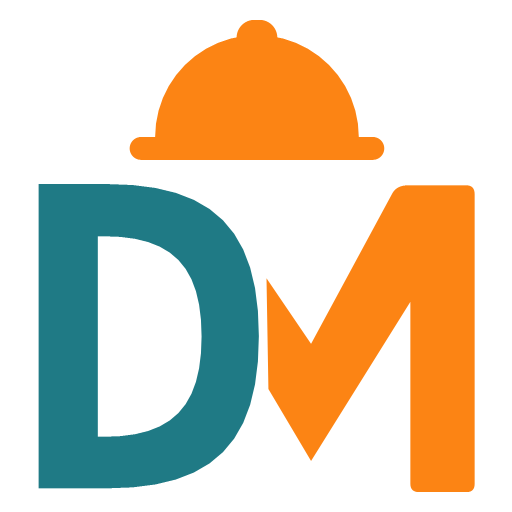
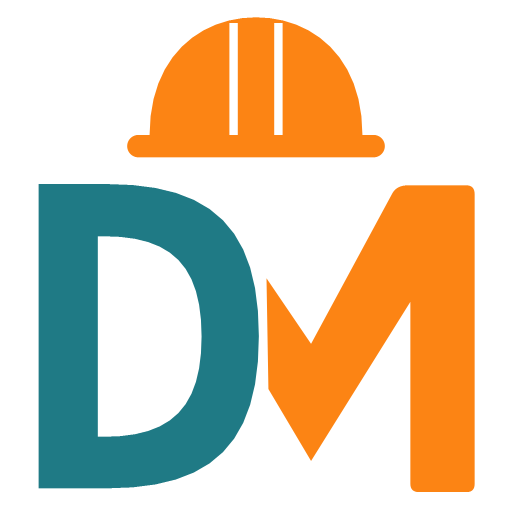
Redraw the hard hat so it reads as a safety helmet

Changed region(s): [[0.25, 0.0312, 0.75, 0.3125]]

diff --git a/index.html b/index.html
@@ -437,7 +437,7 @@ section { scroll-margin-top: calc(var(--bar-h, 72px) - 8px); }
 
 <header class="bar" id="bar">
   <div class="wrap bar-in">
-    <a class="mark" href="#top" aria-label="DM Solutions Ireland Limited, home"><svg class="logo" viewBox="36 76 254 84" width="139" height="46" role="img" aria-label="DM Solutions Ireland Limited"><g transform="translate(55.5 79.4) scale(0.4)"><path d="M10 50A40 40 0 0 1 90 50Z" fill="#FC8414"/><rect x="42" y="4" width="16" height="30" rx="7" fill="#FC8414"/><rect x="0" y="50" width="100" height="9" rx="4.5" fill="#FC8414"/></g><path fill-rule="evenodd" fill="#52B8C4" d="M41.2 106.8H52C68.7 106.8 75.8 114 75.8 130.7C75.8 147.4 68.7 154.6 52 154.6H41.2ZM50.5 115H51.5C62.2 115 66.8 119.7 66.8 130.75C66.8 141.8 62.2 146.5 51.5 146.5H50.5Z"/><path fill="#FC8414" d="M99.2 107L108.4 107Q109.7 107 109.7 108.4L109.7 153.9Q109.7 155.2 108.4 155.2L101 155.2Q99.6 155.2 99.6 153.9L99.6 125.3L84 150.3L77.3 139L77 121.6L84 131.9L96.8 108.2Q97.5 107 99.2 107Z"/><g transform="translate(-40.8 -50.82) scale(1.2)"><path fill="#FFFFFF" d="M135 147.8L140.2 147.8Q140.3 148.9 140.9 149.5Q141.6 150.1 142.6 150.1Q143.7 150.1 144.3 149.6Q145 149.1 145 148.2Q145 147.5 144.5 147Q144 146.5 143.2 146.2Q142.5 145.9 141.2 145.5Q139.3 144.9 138 144.3Q136.8 143.7 135.9 142.6Q135 141.4 135 139.5Q135 136.7 137.1 135.2Q139.1 133.6 142.3 133.6Q145.6 133.6 147.6 135.2Q149.6 136.7 149.8 139.5L144.5 139.5Q144.5 138.6 143.8 138Q143.2 137.5 142.1 137.5Q141.3 137.5 140.7 137.9Q140.2 138.4 140.2 139.3Q140.2 140.3 141.1 140.8Q142 141.3 143.9 142Q145.9 142.6 147.1 143.2Q148.3 143.8 149.2 144.9Q150 146.1 150 147.9Q150 149.6 149.2 151Q148.3 152.4 146.7 153.2Q145 154 142.8 154Q140.6 154 138.9 153.3Q137.1 152.6 136.1 151.2Q135 149.8 135 147.8Z M152.3 145.9Q152.3 143.4 153.4 141.6Q154.5 139.7 156.4 138.7Q158.2 137.7 160.6 137.7Q162.9 137.7 164.8 138.7Q166.7 139.7 167.7 141.6Q168.8 143.4 168.8 145.9Q168.8 148.3 167.7 150.2Q166.6 152 164.7 153Q162.8 154 160.5 154Q158.2 154 156.3 153Q154.5 152 153.4 150.2Q152.3 148.3 152.3 145.9Z M163.9 145.9Q163.9 144 162.9 143Q162 141.9 160.6 141.9Q159.2 141.9 158.2 142.9Q157.3 143.9 157.3 145.9Q157.3 147.8 158.2 148.8Q159.1 149.8 160.5 149.8Q161.9 149.8 162.9 148.8Q163.9 147.8 163.9 145.9Z M176.5 132.8L176.5 153.8L171.7 153.8L171.7 132.8L176.5 132.8Z M196 138L196 153.8L191.1 153.8L191.1 151.6Q190.4 152.7 189.1 153.3Q187.9 154 186.3 154Q184.5 154 183.1 153.2Q181.7 152.4 181 150.8Q180.2 149.3 180.2 147.2L180.2 138L185 138L185 146.6Q185 148.1 185.8 149Q186.7 149.9 188.1 149.9Q189.5 149.9 190.3 149Q191.1 148.1 191.1 146.6L191.1 138L196 138Z M208.6 149.7L208.6 153.8L206.1 153.8Q203.5 153.8 202 152.5Q200.5 151.2 200.5 148.3L200.5 142L198.6 142L198.6 138L200.5 138L200.5 134.1L205.4 134.1L205.4 138L208.6 138L208.6 142L205.4 142L205.4 148.3Q205.4 149.1 205.7 149.4Q206.1 149.7 206.9 149.7L208.6 149.7Z M211.1 133.7Q211.1 132.6 211.9 131.8Q212.7 131.1 214 131.1Q215.3 131.1 216.1 131.8Q216.9 132.6 216.9 133.7Q216.9 134.8 216.1 135.6Q215.3 136.3 214 136.3Q212.7 136.3 211.9 135.6Q211.1 134.8 211.1 133.7Z M216.4 138L216.4 153.8L211.6 153.8L211.6 138L216.4 138Z M219.3 145.9Q219.3 143.4 220.3 141.6Q221.4 139.7 223.3 138.7Q225.2 137.7 227.5 137.7Q229.8 137.7 231.7 138.7Q233.6 139.7 234.7 141.6Q235.7 143.4 235.7 145.9Q235.7 148.3 234.6 150.2Q233.5 152 231.7 153Q229.8 154 227.4 154Q225.1 154 223.3 153Q221.4 152 220.3 150.2Q219.3 148.3 219.3 145.9Z M230.8 145.9Q230.8 144 229.8 143Q228.9 141.9 227.5 141.9Q226.1 141.9 225.1 142.9Q224.2 143.9 224.2 145.9Q224.2 147.8 225.1 148.8Q226 149.8 227.4 149.8Q228.8 149.8 229.8 148.8Q230.8 147.8 230.8 145.9Z M254.4 144.5L254.4 153.8L249.5 153.8L249.5 145.2Q249.5 143.6 248.7 142.7Q247.9 141.8 246.5 141.8Q245.1 141.8 244.3 142.7Q243.5 143.6 243.5 145.2L243.5 153.8L238.6 153.8L238.6 138L243.5 138L243.5 140.1Q244.2 139 245.4 138.4Q246.7 137.8 248.3 137.8Q251 137.8 252.7 139.6Q254.4 141.4 254.4 144.5Z M257.2 148.6L262 148.6Q262.1 149.4 262.7 149.9Q263.4 150.4 264.4 150.4Q265.3 150.4 265.8 150.1Q266.3 149.7 266.3 149.2Q266.3 148.5 265.6 148.2Q264.9 147.8 263.3 147.4Q261.6 147 260.5 146.6Q259.3 146.2 258.5 145.2Q257.7 144.3 257.7 142.6Q257.7 141.3 258.4 140.2Q259.2 139 260.6 138.4Q262.1 137.7 264.1 137.7Q267.1 137.7 268.8 139.2Q270.5 140.7 270.8 143.1L266.3 143.1Q266.2 142.3 265.6 141.8Q265 141.3 264 141.3Q263.1 141.3 262.7 141.7Q262.2 142 262.2 142.6Q262.2 143.2 262.9 143.6Q263.7 143.9 265.2 144.3Q267 144.7 268.1 145.2Q269.2 145.6 270 146.6Q270.9 147.6 270.9 149.2Q270.9 150.6 270.1 151.7Q269.3 152.8 267.9 153.4Q266.4 154 264.5 154Q262.4 154 260.8 153.3Q259.2 152.6 258.2 151.4Q257.3 150.1 257.2 148.6Z"/><path fill="#FFFFFF" d="M135.6 162L135.6 172L134 172L134 162L135.6 162Z M144.8 172L142.5 168L141.2 168L141.2 172L139.6 172L139.6 162L143 162Q144.2 162 145 162.4Q145.8 162.8 146.2 163.5Q146.6 164.2 146.6 165Q146.6 166 146 166.8Q145.4 167.6 144.3 167.9L146.7 172L144.8 172Z M141.2 166.7L143 166.7Q144 166.7 144.4 166.2Q144.9 165.8 144.9 165Q144.9 164.2 144.4 163.8Q144 163.3 143 163.3L141.2 163.3L141.2 166.7Z M152.1 163.3L152.1 166.3L155.6 166.3L155.6 167.6L152.1 167.6L152.1 170.7L156 170.7L156 172L150.5 172L150.5 162L156 162L156 163.3L152.1 163.3Z M161.5 170.7L164.9 170.7L164.9 172L159.8 172L159.8 162L161.5 162L161.5 170.7Z M174.1 170L169.9 170L169.1 172L167.4 172L171 162L172.9 162L176.5 172L174.8 172L174.1 170Z M173.6 168.6L172 164L170.3 168.6L173.6 168.6Z M188.1 172L186.4 172L181.5 164.5L181.5 172L179.9 172L179.9 162L181.5 162L186.4 169.4L186.4 162L188.1 162L188.1 172Z M200.6 167Q200.6 168.6 200 169.7Q199.3 170.8 198.1 171.4Q196.9 172 195.3 172L192 172L192 162L195.3 162Q196.9 162 198.1 162.6Q199.3 163.2 200 164.4Q200.6 165.5 200.6 167Z M198.9 167Q198.9 165.3 198 164.3Q197.1 163.3 195.3 163.3L193.7 163.3L193.7 170.7L195.3 170.7Q197.1 170.7 198 169.7Q198.9 168.8 198.9 167Z M211.2 170.7L214.6 170.7L214.6 172L209.6 172L209.6 162L211.2 162L211.2 170.7Z M219.4 162L219.4 172L217.8 172L217.8 162L219.4 162Z M233.9 162L233.9 172L232.3 172L232.3 165.1L229.2 172L228.1 172L225 165.1L225 172L223.4 172L223.4 162L225.2 162L228.7 169.8L232.2 162L233.9 162Z M239.5 162L239.5 172L237.9 172L237.9 162L239.5 162Z M250 162L250 163.3L247.3 163.3L247.3 172L245.7 172L245.7 163.3L243 163.3L243 162L250 162Z M255.1 163.3L255.1 166.3L258.5 166.3L258.5 167.6L255.1 167.6L255.1 170.7L258.9 170.7L258.9 172L253.4 172L253.4 162L258.9 162L258.9 163.3L255.1 163.3Z M271.3 167Q271.3 168.6 270.7 169.7Q270 170.8 268.8 171.4Q267.6 172 266 172L262.8 172L262.8 162L266 162Q267.6 162 268.8 162.6Q270 163.2 270.7 164.4Q271.3 165.5 271.3 167Z M269.7 167Q269.7 165.3 268.7 164.3Q267.8 163.3 266 163.3L264.4 163.3L264.4 170.7L266 170.7Q267.8 170.7 268.7 169.7Q269.7 168.8 269.7 167Z"/></g></svg></a>
+    <a class="mark" href="#top" aria-label="DM Solutions Ireland Limited, home"><svg class="logo" viewBox="36 76 254 84" width="139" height="46" role="img" aria-label="DM Solutions Ireland Limited"><g transform="translate(53.35 77.08) scale(0.44)"><path fill-rule="evenodd" fill="#FC8414" d="M12 50C12 22 30 8 50 8C70 8 88 22 88 50ZM40.5 10H43.5V50H40.5ZM56.5 10H59.5V50H56.5Z"/><rect x="4" y="50" width="92" height="8" rx="4" fill="#FC8414"/></g><path fill-rule="evenodd" fill="#52B8C4" d="M41.2 106.8H52C68.7 106.8 75.8 114 75.8 130.7C75.8 147.4 68.7 154.6 52 154.6H41.2ZM50.5 115H51.5C62.2 115 66.8 119.7 66.8 130.75C66.8 141.8 62.2 146.5 51.5 146.5H50.5Z"/><path fill="#FC8414" d="M99.2 107L108.4 107Q109.7 107 109.7 108.4L109.7 153.9Q109.7 155.2 108.4 155.2L101 155.2Q99.6 155.2 99.6 153.9L99.6 125.3L84 150.3L77.3 139L77 121.6L84 131.9L96.8 108.2Q97.5 107 99.2 107Z"/><g transform="translate(-40.8 -50.82) scale(1.2)"><path fill="#FFFFFF" d="M135 147.8L140.2 147.8Q140.3 148.9 140.9 149.5Q141.6 150.1 142.6 150.1Q143.7 150.1 144.3 149.6Q145 149.1 145 148.2Q145 147.5 144.5 147Q144 146.5 143.2 146.2Q142.5 145.9 141.2 145.5Q139.3 144.9 138 144.3Q136.8 143.7 135.9 142.6Q135 141.4 135 139.5Q135 136.7 137.1 135.2Q139.1 133.6 142.3 133.6Q145.6 133.6 147.6 135.2Q149.6 136.7 149.8 139.5L144.5 139.5Q144.5 138.6 143.8 138Q143.2 137.5 142.1 137.5Q141.3 137.5 140.7 137.9Q140.2 138.4 140.2 139.3Q140.2 140.3 141.1 140.8Q142 141.3 143.9 142Q145.9 142.6 147.1 143.2Q148.3 143.8 149.2 144.9Q150 146.1 150 147.9Q150 149.6 149.2 151Q148.3 152.4 146.7 153.2Q145 154 142.8 154Q140.6 154 138.9 153.3Q137.1 152.6 136.1 151.2Q135 149.8 135 147.8Z M152.3 145.9Q152.3 143.4 153.4 141.6Q154.5 139.7 156.4 138.7Q158.2 137.7 160.6 137.7Q162.9 137.7 164.8 138.7Q166.7 139.7 167.7 141.6Q168.8 143.4 168.8 145.9Q168.8 148.3 167.7 150.2Q166.6 152 164.7 153Q162.8 154 160.5 154Q158.2 154 156.3 153Q154.5 152 153.4 150.2Q152.3 148.3 152.3 145.9Z M163.9 145.9Q163.9 144 162.9 143Q162 141.9 160.6 141.9Q159.2 141.9 158.2 142.9Q157.3 143.9 157.3 145.9Q157.3 147.8 158.2 148.8Q159.1 149.8 160.5 149.8Q161.9 149.8 162.9 148.8Q163.9 147.8 163.9 145.9Z M176.5 132.8L176.5 153.8L171.7 153.8L171.7 132.8L176.5 132.8Z M196 138L196 153.8L191.1 153.8L191.1 151.6Q190.4 152.7 189.1 153.3Q187.9 154 186.3 154Q184.5 154 183.1 153.2Q181.7 152.4 181 150.8Q180.2 149.3 180.2 147.2L180.2 138L185 138L185 146.6Q185 148.1 185.8 149Q186.7 149.9 188.1 149.9Q189.5 149.9 190.3 149Q191.1 148.1 191.1 146.6L191.1 138L196 138Z M208.6 149.7L208.6 153.8L206.1 153.8Q203.5 153.8 202 152.5Q200.5 151.2 200.5 148.3L200.5 142L198.6 142L198.6 138L200.5 138L200.5 134.1L205.4 134.1L205.4 138L208.6 138L208.6 142L205.4 142L205.4 148.3Q205.4 149.1 205.7 149.4Q206.1 149.7 206.9 149.7L208.6 149.7Z M211.1 133.7Q211.1 132.6 211.9 131.8Q212.7 131.1 214 131.1Q215.3 131.1 216.1 131.8Q216.9 132.6 216.9 133.7Q216.9 134.8 216.1 135.6Q215.3 136.3 214 136.3Q212.7 136.3 211.9 135.6Q211.1 134.8 211.1 133.7Z M216.4 138L216.4 153.8L211.6 153.8L211.6 138L216.4 138Z M219.3 145.9Q219.3 143.4 220.3 141.6Q221.4 139.7 223.3 138.7Q225.2 137.7 227.5 137.7Q229.8 137.7 231.7 138.7Q233.6 139.7 234.7 141.6Q235.7 143.4 235.7 145.9Q235.7 148.3 234.6 150.2Q233.5 152 231.7 153Q229.8 154 227.4 154Q225.1 154 223.3 153Q221.4 152 220.3 150.2Q219.3 148.3 219.3 145.9Z M230.8 145.9Q230.8 144 229.8 143Q228.9 141.9 227.5 141.9Q226.1 141.9 225.1 142.9Q224.2 143.9 224.2 145.9Q224.2 147.8 225.1 148.8Q226 149.8 227.4 149.8Q228.8 149.8 229.8 148.8Q230.8 147.8 230.8 145.9Z M254.4 144.5L254.4 153.8L249.5 153.8L249.5 145.2Q249.5 143.6 248.7 142.7Q247.9 141.8 246.5 141.8Q245.1 141.8 244.3 142.7Q243.5 143.6 243.5 145.2L243.5 153.8L238.6 153.8L238.6 138L243.5 138L243.5 140.1Q244.2 139 245.4 138.4Q246.7 137.8 248.3 137.8Q251 137.8 252.7 139.6Q254.4 141.4 254.4 144.5Z M257.2 148.6L262 148.6Q262.1 149.4 262.7 149.9Q263.4 150.4 264.4 150.4Q265.3 150.4 265.8 150.1Q266.3 149.7 266.3 149.2Q266.3 148.5 265.6 148.2Q264.9 147.8 263.3 147.4Q261.6 147 260.5 146.6Q259.3 146.2 258.5 145.2Q257.7 144.3 257.7 142.6Q257.7 141.3 258.4 140.2Q259.2 139 260.6 138.4Q262.1 137.7 264.1 137.7Q267.1 137.7 268.8 139.2Q270.5 140.7 270.8 143.1L266.3 143.1Q266.2 142.3 265.6 141.8Q265 141.3 264 141.3Q263.1 141.3 262.7 141.7Q262.2 142 262.2 142.6Q262.2 143.2 262.9 143.6Q263.7 143.9 265.2 144.3Q267 144.7 268.1 145.2Q269.2 145.6 270 146.6Q270.9 147.6 270.9 149.2Q270.9 150.6 270.1 151.7Q269.3 152.8 267.9 153.4Q266.4 154 264.5 154Q262.4 154 260.8 153.3Q259.2 152.6 258.2 151.4Q257.3 150.1 257.2 148.6Z"/><path fill="#FFFFFF" d="M135.6 162L135.6 172L134 172L134 162L135.6 162Z M144.8 172L142.5 168L141.2 168L141.2 172L139.6 172L139.6 162L143 162Q144.2 162 145 162.4Q145.8 162.8 146.2 163.5Q146.6 164.2 146.6 165Q146.6 166 146 166.8Q145.4 167.6 144.3 167.9L146.7 172L144.8 172Z M141.2 166.7L143 166.7Q144 166.7 144.4 166.2Q144.9 165.8 144.9 165Q144.9 164.2 144.4 163.8Q144 163.3 143 163.3L141.2 163.3L141.2 166.7Z M152.1 163.3L152.1 166.3L155.6 166.3L155.6 167.6L152.1 167.6L152.1 170.7L156 170.7L156 172L150.5 172L150.5 162L156 162L156 163.3L152.1 163.3Z M161.5 170.7L164.9 170.7L164.9 172L159.8 172L159.8 162L161.5 162L161.5 170.7Z M174.1 170L169.9 170L169.1 172L167.4 172L171 162L172.9 162L176.5 172L174.8 172L174.1 170Z M173.6 168.6L172 164L170.3 168.6L173.6 168.6Z M188.1 172L186.4 172L181.5 164.5L181.5 172L179.9 172L179.9 162L181.5 162L186.4 169.4L186.4 162L188.1 162L188.1 172Z M200.6 167Q200.6 168.6 200 169.7Q199.3 170.8 198.1 171.4Q196.9 172 195.3 172L192 172L192 162L195.3 162Q196.9 162 198.1 162.6Q199.3 163.2 200 164.4Q200.6 165.5 200.6 167Z M198.9 167Q198.9 165.3 198 164.3Q197.1 163.3 195.3 163.3L193.7 163.3L193.7 170.7L195.3 170.7Q197.1 170.7 198 169.7Q198.9 168.8 198.9 167Z M211.2 170.7L214.6 170.7L214.6 172L209.6 172L209.6 162L211.2 162L211.2 170.7Z M219.4 162L219.4 172L217.8 172L217.8 162L219.4 162Z M233.9 162L233.9 172L232.3 172L232.3 165.1L229.2 172L228.1 172L225 165.1L225 172L223.4 172L223.4 162L225.2 162L228.7 169.8L232.2 162L233.9 162Z M239.5 162L239.5 172L237.9 172L237.9 162L239.5 162Z M250 162L250 163.3L247.3 163.3L247.3 172L245.7 172L245.7 163.3L243 163.3L243 162L250 162Z M255.1 163.3L255.1 166.3L258.5 166.3L258.5 167.6L255.1 167.6L255.1 170.7L258.9 170.7L258.9 172L253.4 172L253.4 162L258.9 162L258.9 163.3L255.1 163.3Z M271.3 167Q271.3 168.6 270.7 169.7Q270 170.8 268.8 171.4Q267.6 172 266 172L262.8 172L262.8 162L266 162Q267.6 162 268.8 162.6Q270 163.2 270.7 164.4Q271.3 165.5 271.3 167Z M269.7 167Q269.7 165.3 268.7 164.3Q267.8 163.3 266 163.3L264.4 163.3L264.4 170.7L266 170.7Q267.8 170.7 268.7 169.7Q269.7 168.8 269.7 167Z"/></g></svg></a>
     <nav aria-label="Sections">
       <a href="#services">Personnel</a>
       <a href="#sectors">Sectors</a>
@@ -589,7 +589,7 @@ section { scroll-margin-top: calc(var(--bar-h, 72px) - 8px); }
 
   <section id="story" style="padding-top:0">
     <div class="wrap story">
-      <div class="monogram" role="group" aria-label="DM: Devine and Meth"><svg class="mark-lg" viewBox="38 76 74 82" role="img" aria-label="The DM Solutions Ireland mark"><g class="hat" transform="translate(55.5 79.4) scale(0.4)"><path d="M10 50A40 40 0 0 1 90 50Z"/><rect x="42" y="4" width="16" height="30" rx="7"/><rect x="0" y="50" width="100" height="9" rx="4.5"/></g><path class="d" fill-rule="evenodd" d="M41.2 106.8H52C68.7 106.8 75.8 114 75.8 130.7C75.8 147.4 68.7 154.6 52 154.6H41.2ZM50.5 115H51.5C62.2 115 66.8 119.7 66.8 130.75C66.8 141.8 62.2 146.5 51.5 146.5H50.5Z"/><path class="m" d="M99.2 107L108.4 107Q109.7 107 109.7 108.4L109.7 153.9Q109.7 155.2 108.4 155.2L101 155.2Q99.6 155.2 99.6 153.9L99.6 125.3L84 150.3L77.3 139L77 121.6L84 131.9L96.8 108.2Q97.5 107 99.2 107Z"/></svg><div class="who"><div class="person"><span class="lbar lbar-d"></span><strong>Devine</strong><small>Ronan Devine, Director</small></div><div class="person"><span class="lbar lbar-m"></span><strong>Meth</strong><small>Felton Meth, Director</small></div></div></div>
+      <div class="monogram" role="group" aria-label="DM: Devine and Meth"><svg class="mark-lg" viewBox="38 76 74 82" role="img" aria-label="The DM Solutions Ireland mark"><g class="hat" transform="translate(53.35 77.08) scale(0.44)"><path fill-rule="evenodd" d="M12 50C12 22 30 8 50 8C70 8 88 22 88 50ZM40.5 10H43.5V50H40.5ZM56.5 10H59.5V50H56.5Z"/><rect x="4" y="50" width="92" height="8" rx="4"/></g><path class="d" fill-rule="evenodd" d="M41.2 106.8H52C68.7 106.8 75.8 114 75.8 130.7C75.8 147.4 68.7 154.6 52 154.6H41.2ZM50.5 115H51.5C62.2 115 66.8 119.7 66.8 130.75C66.8 141.8 62.2 146.5 51.5 146.5H50.5Z"/><path class="m" d="M99.2 107L108.4 107Q109.7 107 109.7 108.4L109.7 153.9Q109.7 155.2 108.4 155.2L101 155.2Q99.6 155.2 99.6 153.9L99.6 125.3L84 150.3L77.3 139L77 121.6L84 131.9L96.8 108.2Q97.5 107 99.2 107Z"/></svg><div class="who"><div class="person"><span class="lbar lbar-d"></span><strong>Devine</strong><small>Ronan Devine, Director</small></div><div class="person"><span class="lbar lbar-m"></span><strong>Meth</strong><small>Felton Meth, Director</small></div></div></div>
       <div>
         <h2>Our story</h2>
         <div class="copy">
